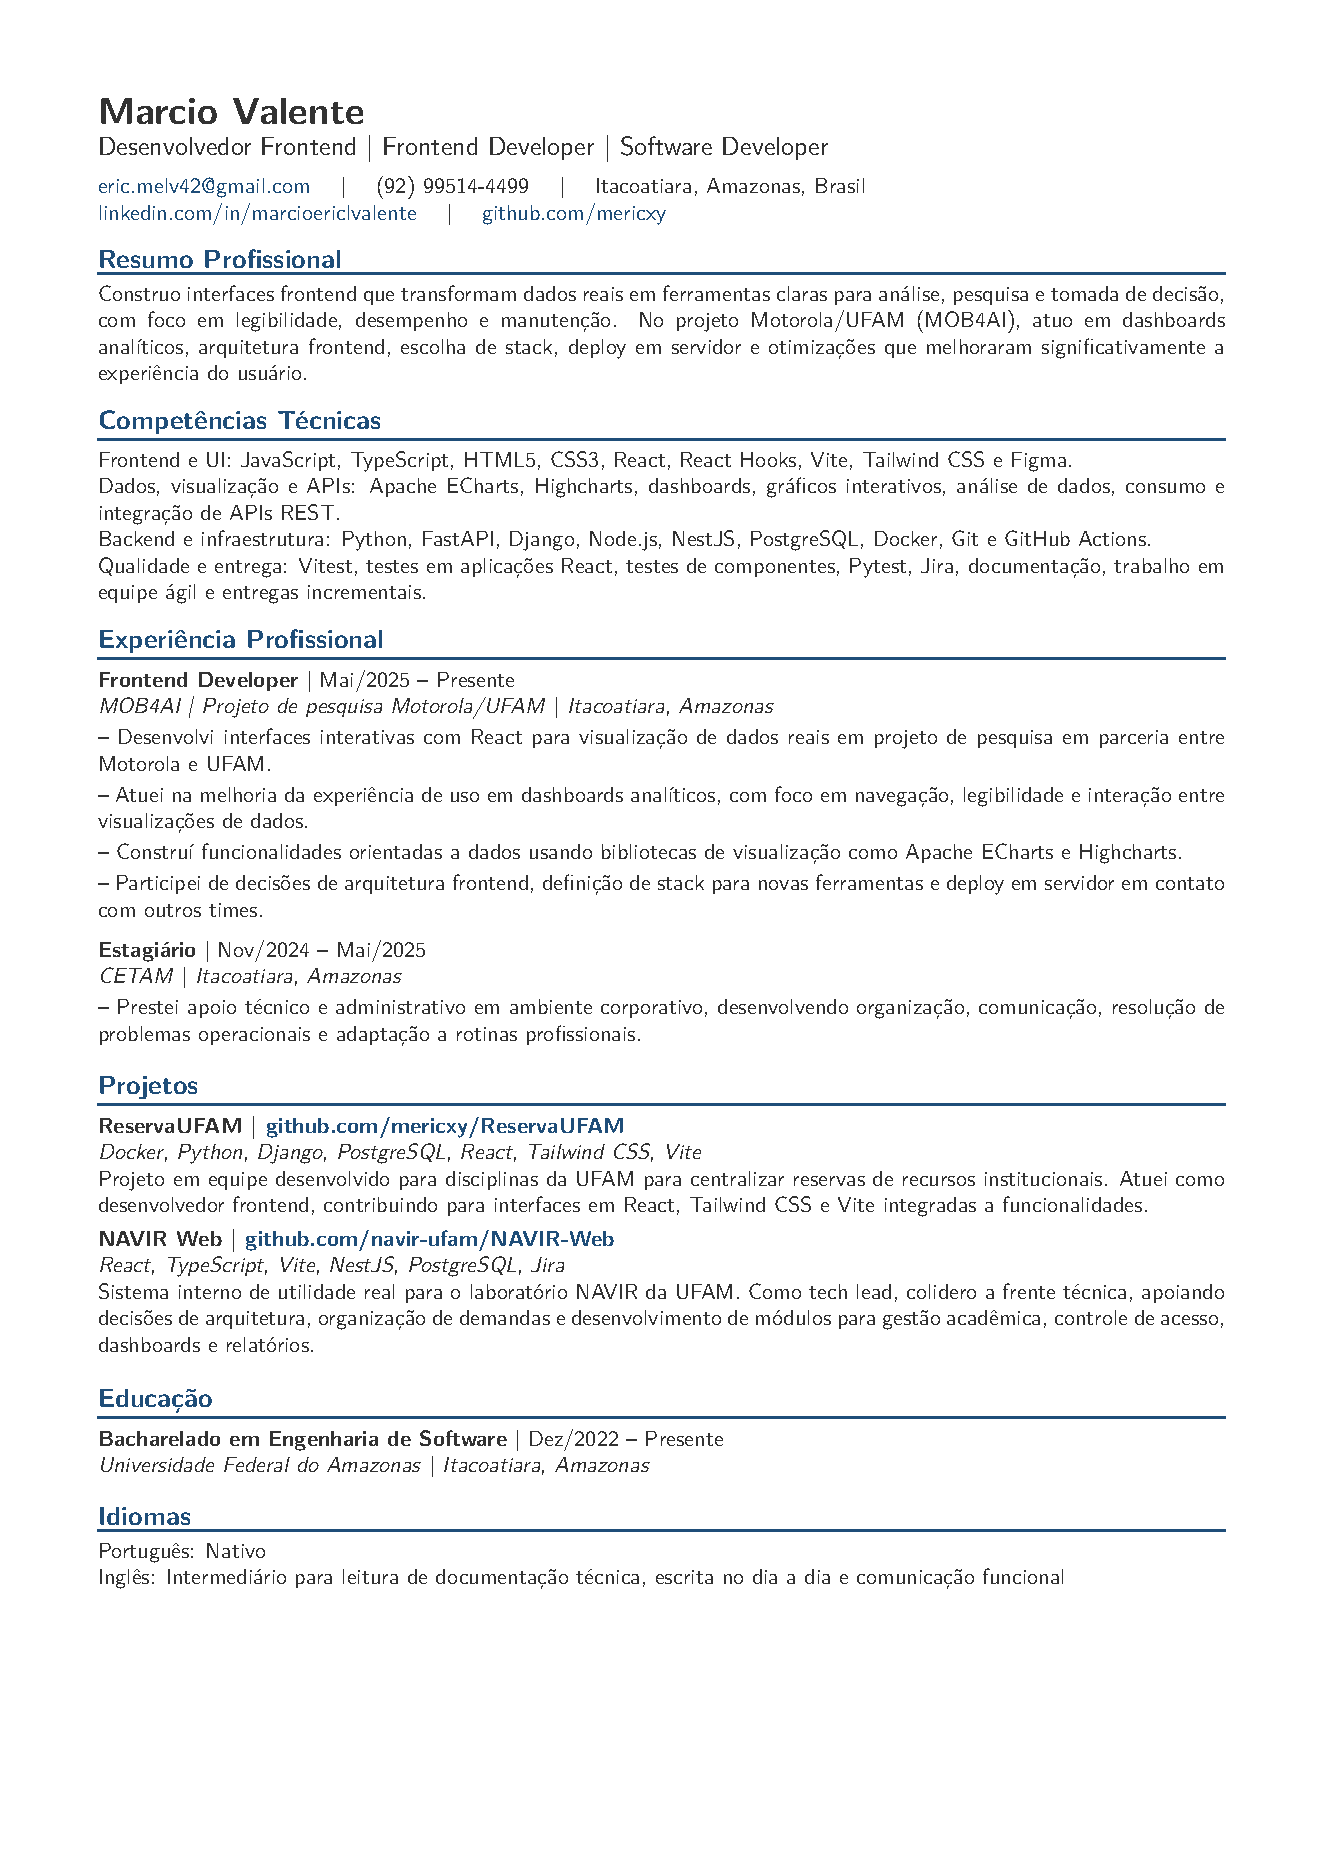
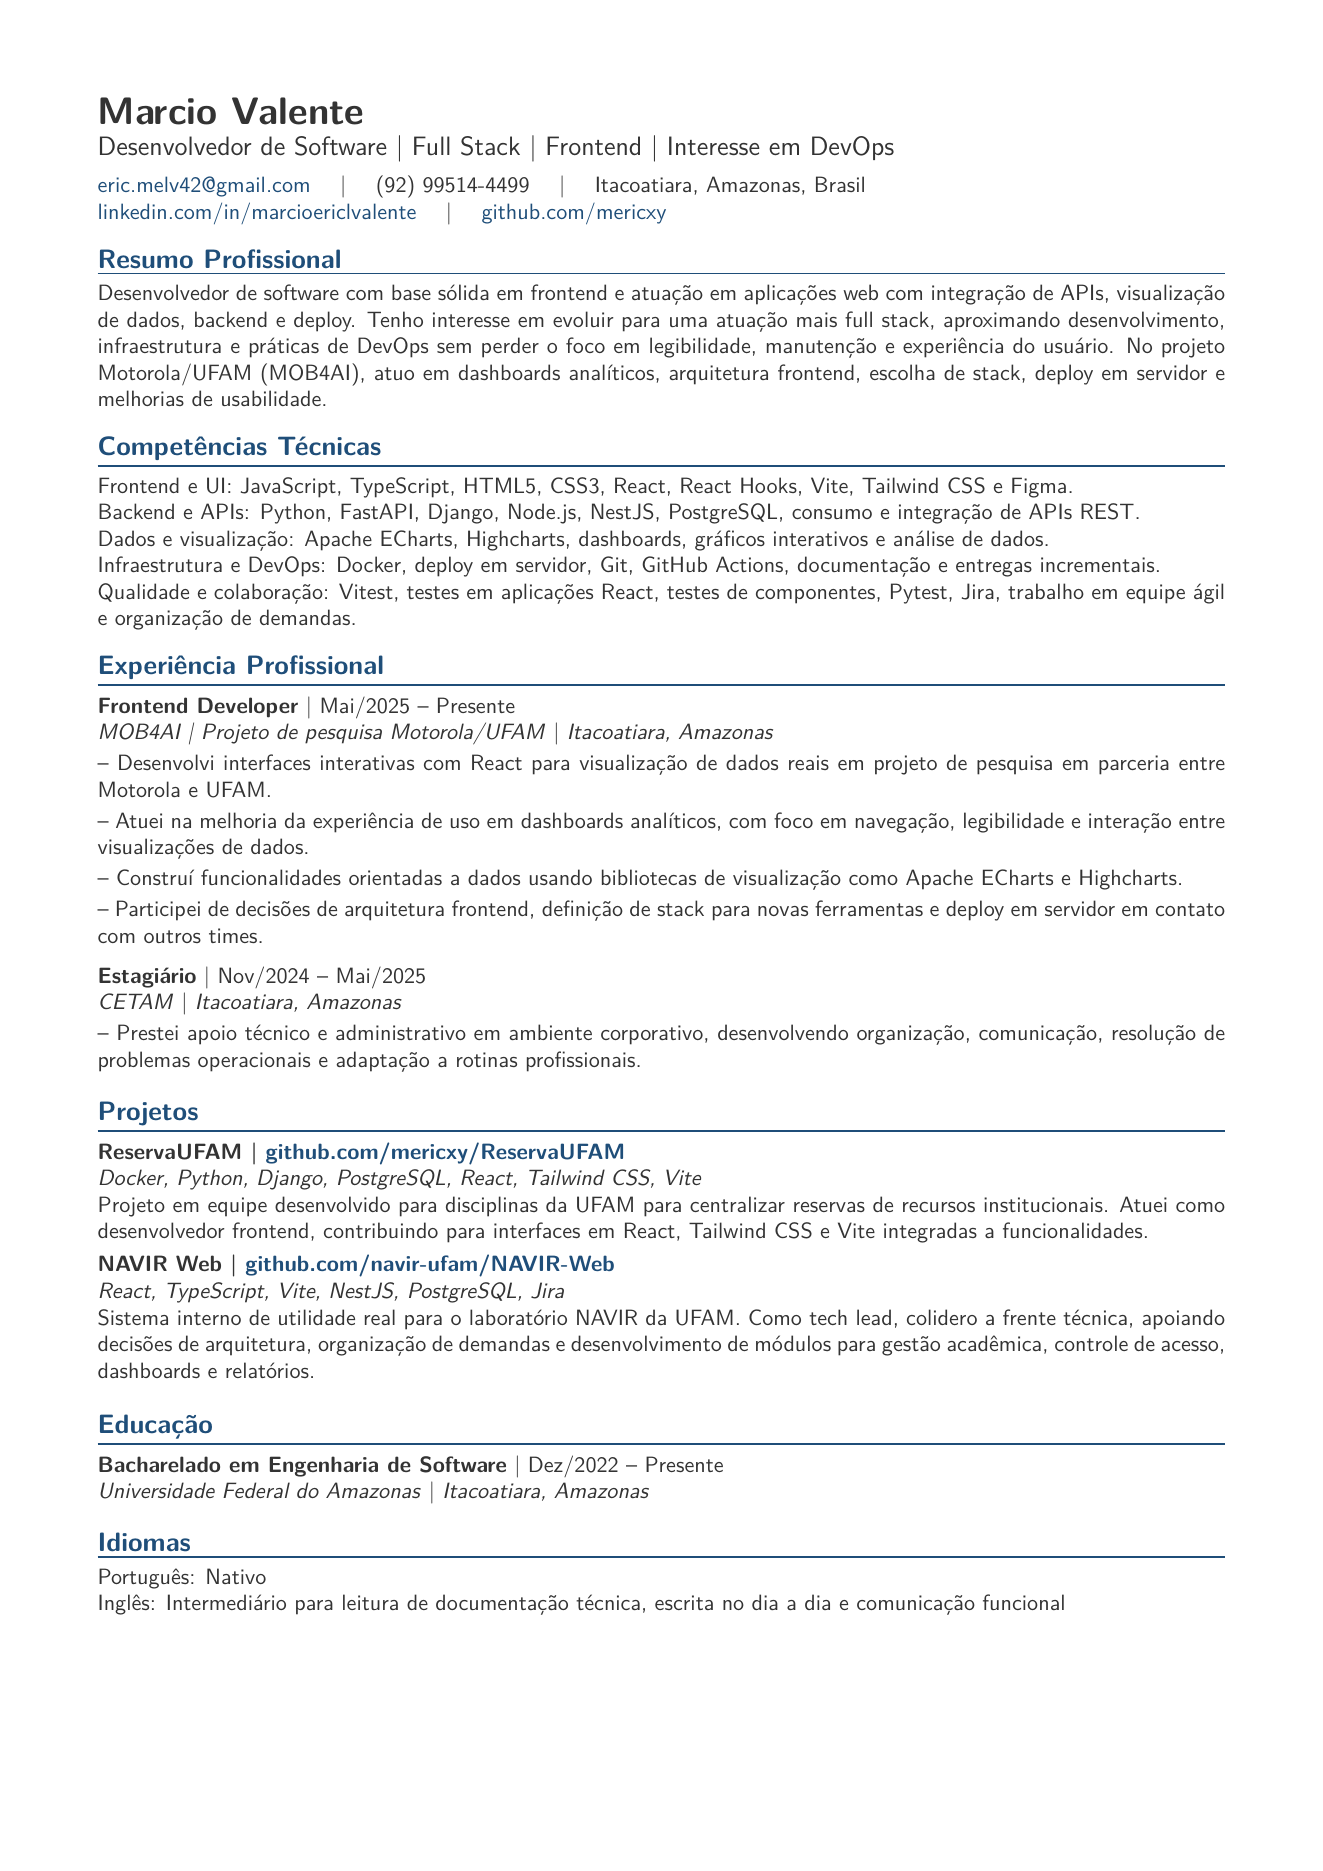
Broaden resume software profile

Changed region(s): [[0.062, 0.062, 0.9297, 0.868], [0.6508, 0.837, 0.8057, 0.868]]

diff --git a/main.tex b/main.tex
@@ -53,7 +53,7 @@
 
 {\LARGE\bfseries Marcio Valente}\par
 \vspace{2pt}
-{\large Desenvolvedor Frontend | Frontend Developer | Software Developer}\par
+{\large Desenvolvedor de Software | Full Stack | Frontend}\par
 \vspace{5pt}
 \href{mailto:eric.melv42@gmail.com}{eric.melv42@gmail.com}
 \quad | \quad
@@ -65,13 +65,14 @@ Itacoatiara, Amazonas, Brasil\par
 \href{https://www.github.com/mericxy}{github.com/mericxy}
 
 \sectiontitle{Resumo Profissional}
-Construo interfaces frontend que transformam dados reais em ferramentas claras para análise, pesquisa e tomada de decisão, com foco em legibilidade, desempenho e manutenção. No projeto Motorola/UFAM (MOB4AI), atuo em dashboards analíticos, arquitetura frontend, escolha de stack, deploy em servidor e otimizações que melhoraram significativamente a experiência do usuário.
+Desenvolvedor de software com base sólida em frontend e atuação em aplicações web com integração de APIs, visualização de dados, backend e deploy. Tenho interesse em evoluir para uma atuação mais full stack, aproximando desenvolvimento, infraestrutura e práticas de DevOps sem perder o foco em legibilidade, manutenção e experiência do usuário. No projeto Motorola/UFAM (MOB4AI), atuo em dashboards analíticos, arquitetura frontend, escolha de stack, deploy em servidor e melhorias de usabilidade.
 
 \sectiontitle{Competências Técnicas}
 Frontend e UI: JavaScript, TypeScript, HTML5, CSS3, React, React Hooks, Vite, Tailwind CSS e Figma.\par
-Dados, visualização e APIs: Apache ECharts, Highcharts, dashboards, gráficos interativos, análise de dados, consumo e integração de APIs REST.\par
-Backend e infraestrutura: Python, FastAPI, Django, Node.js, NestJS, PostgreSQL, Docker, Git e GitHub Actions.\par
-Qualidade e entrega: Vitest, testes em aplicações React, testes de componentes, Pytest, Jira, documentação, trabalho em equipe ágil e entregas incrementais.
+Backend e APIs: Python, FastAPI, Django, Node.js, NestJS, PostgreSQL, consumo e integração de APIs REST.\par
+Dados e visualização: Apache ECharts, Highcharts, dashboards, gráficos interativos e análise de dados.\par
+Infraestrutura e DevOps: Docker, deploy em servidor, Git, GitHub Actions, documentação e entregas incrementais.\par
+Qualidade e colaboração: Vitest, testes em aplicações React, testes de componentes, Pytest, Jira, trabalho em equipe ágil e organização de demandas.
 
 \sectiontitle{Experiência Profissional}
 \role{Frontend Developer}{Mai/2025 -- Presente}{MOB4AI | Projeto de pesquisa Motorola/UFAM}{Itacoatiara, Amazonas}
